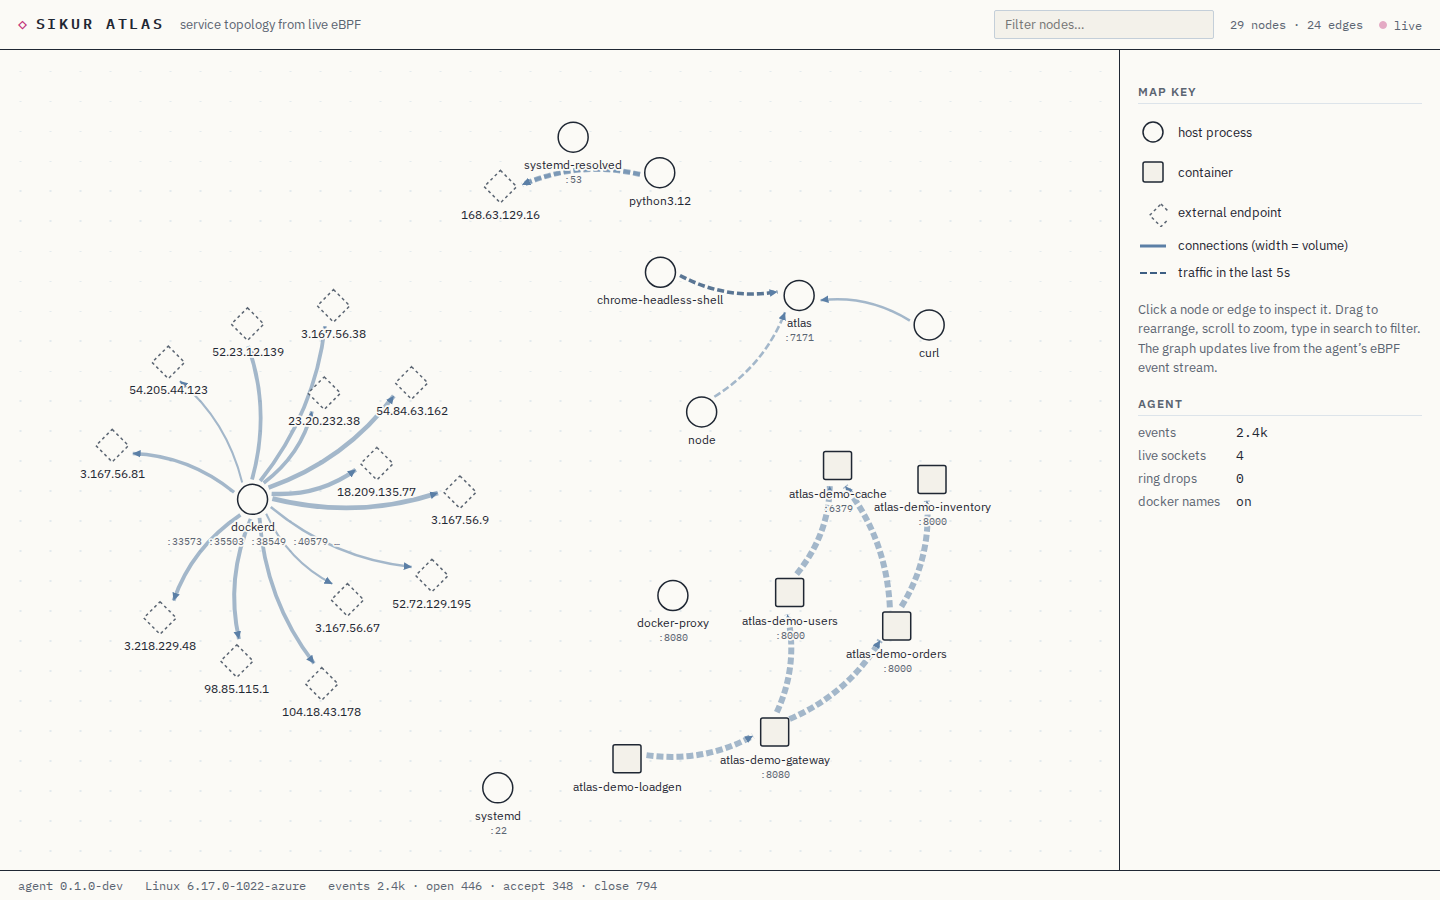
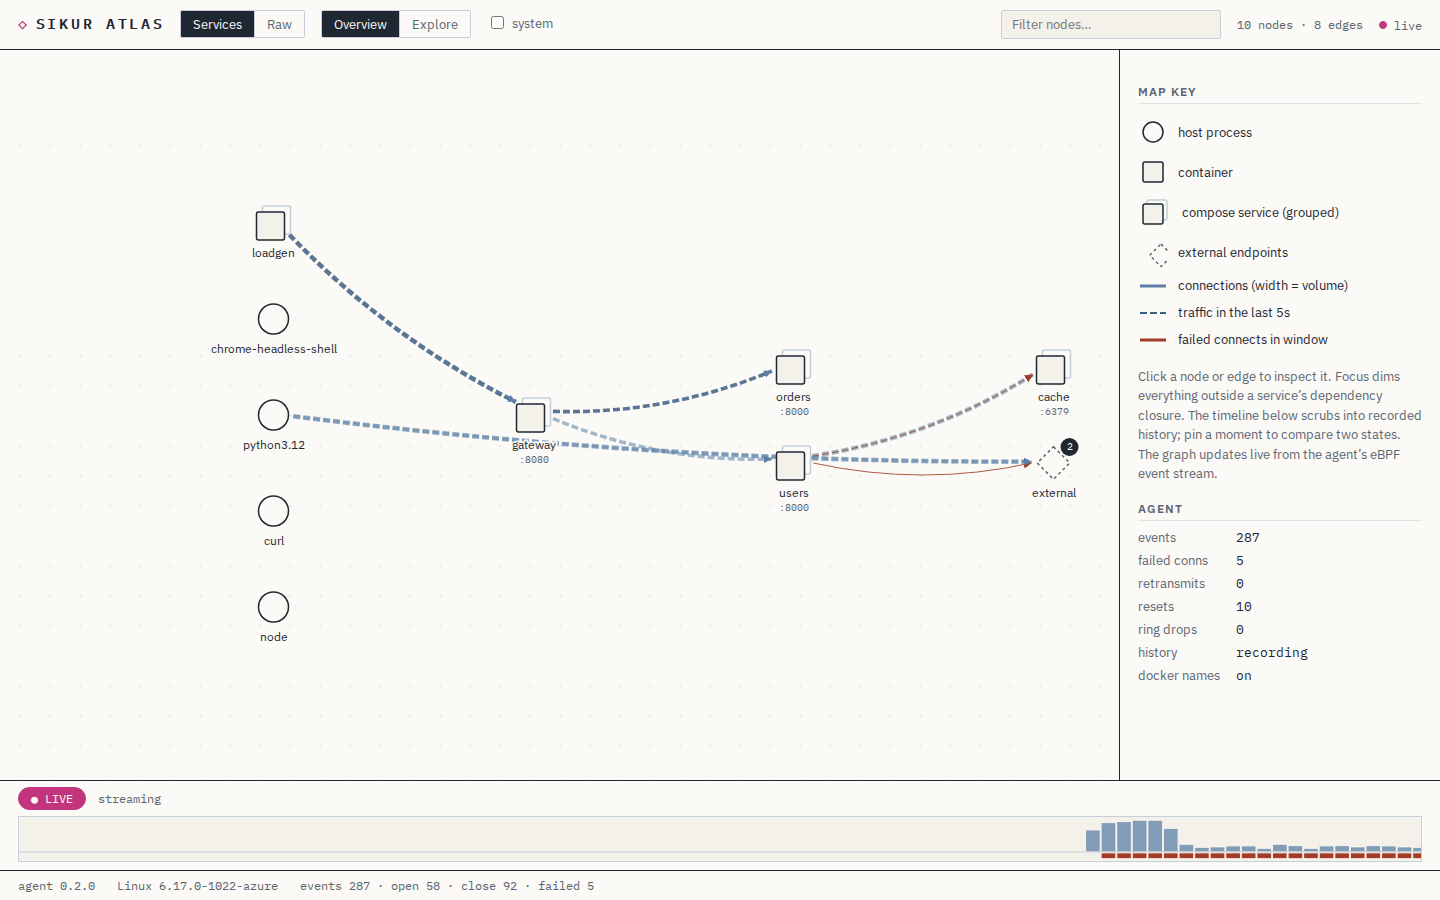
docs: v0.2 screenshots from the CI e2e run

diff --git a/README.md b/README.md
@@ -13,7 +13,8 @@ container, groups containers into their Compose services, and records
 everything into a local SQLite file so the topology has a past, not just
 a present.
 
-![Atlas UI showing the demo topology](docs/atlas-ui.png)
+![Atlas live view: the demo topology mid-incident, with a failing
+dependency in red](docs/atlas-ui.png)
 
 ## Quick start
 
@@ -57,6 +58,9 @@ docker compose -f demo/docker-compose.yml stop inventory
 #   - "Pin A" on a past moment, pick a present moment: Compare lists
 #     "− inventory" and "− orders → inventory:8000"
 ```
+
+![Compare: inventory removed between the two moments, with the cascade
+it caused](docs/atlas-compare.png)
 
 `make demo-down` removes the workload. `make e2e` runs this whole story
 non-interactively — including a real service stop, an agent restart to
